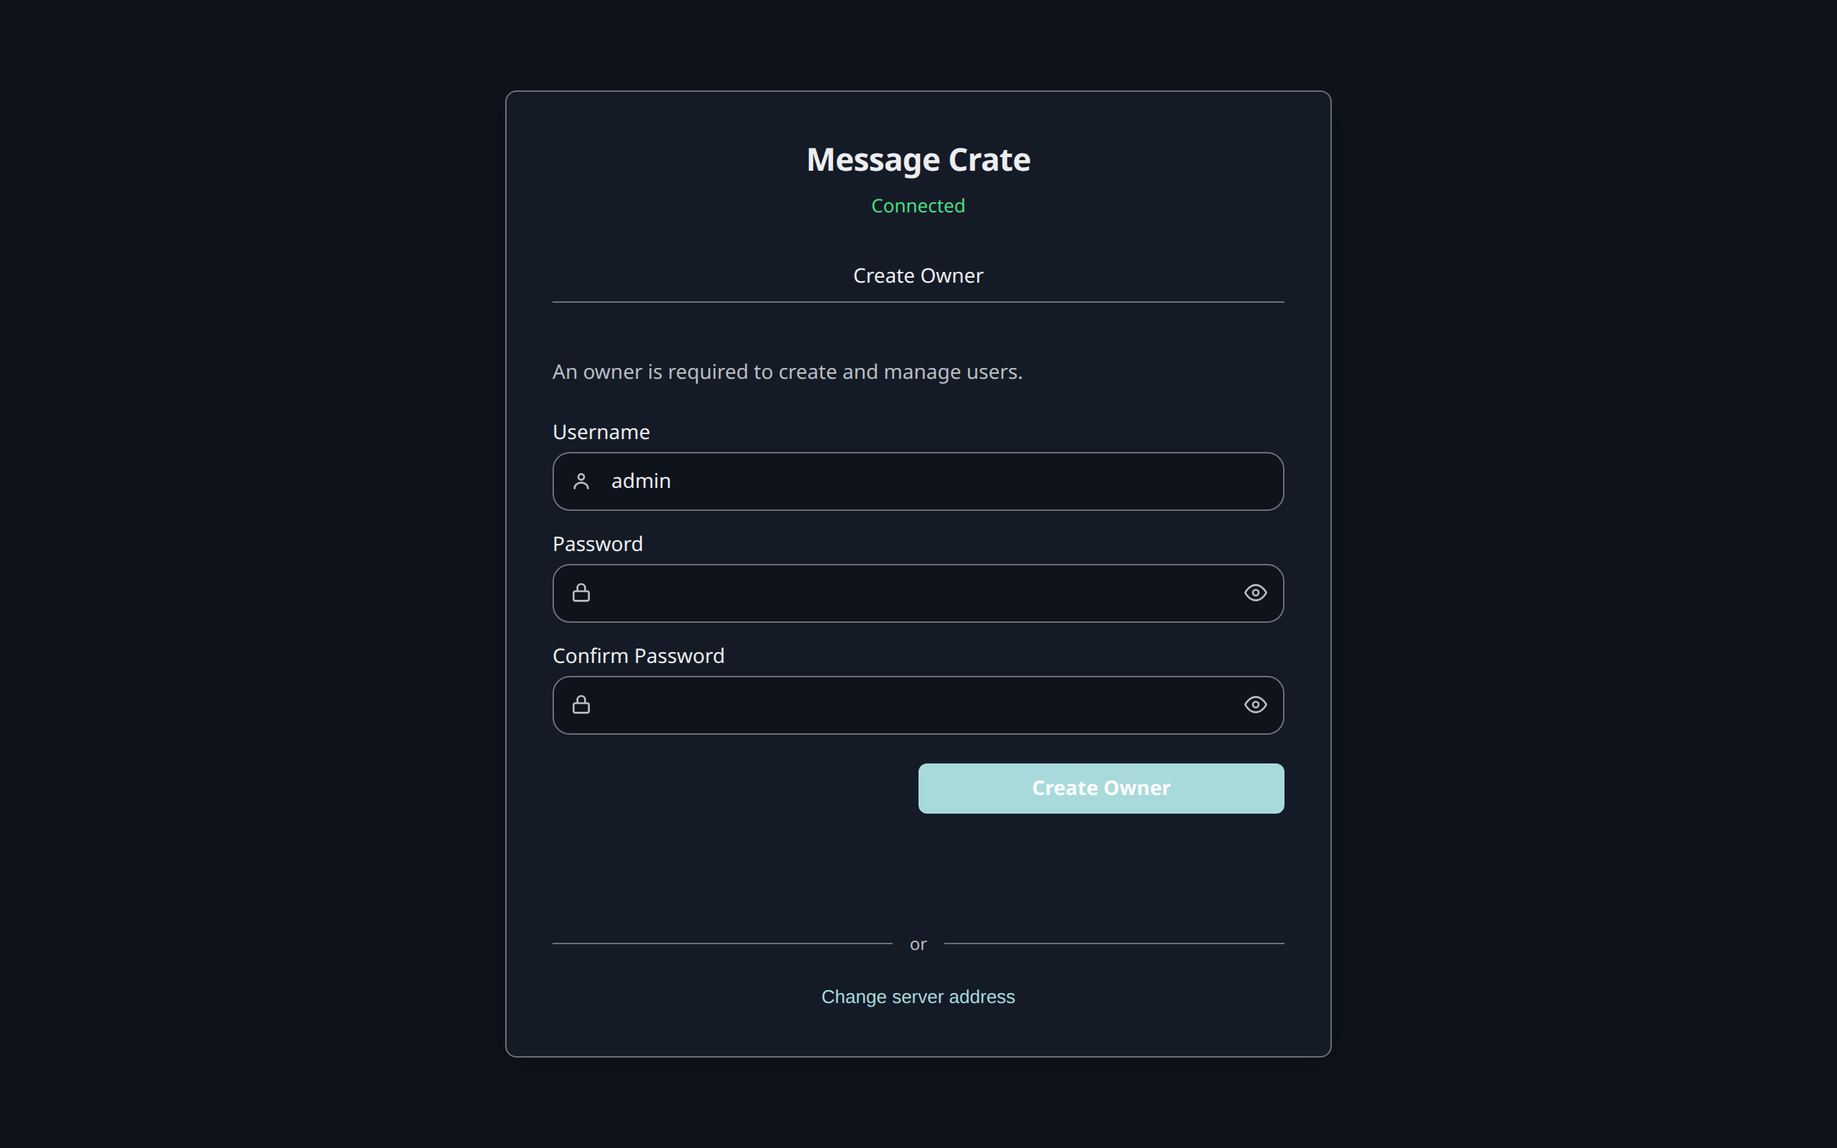
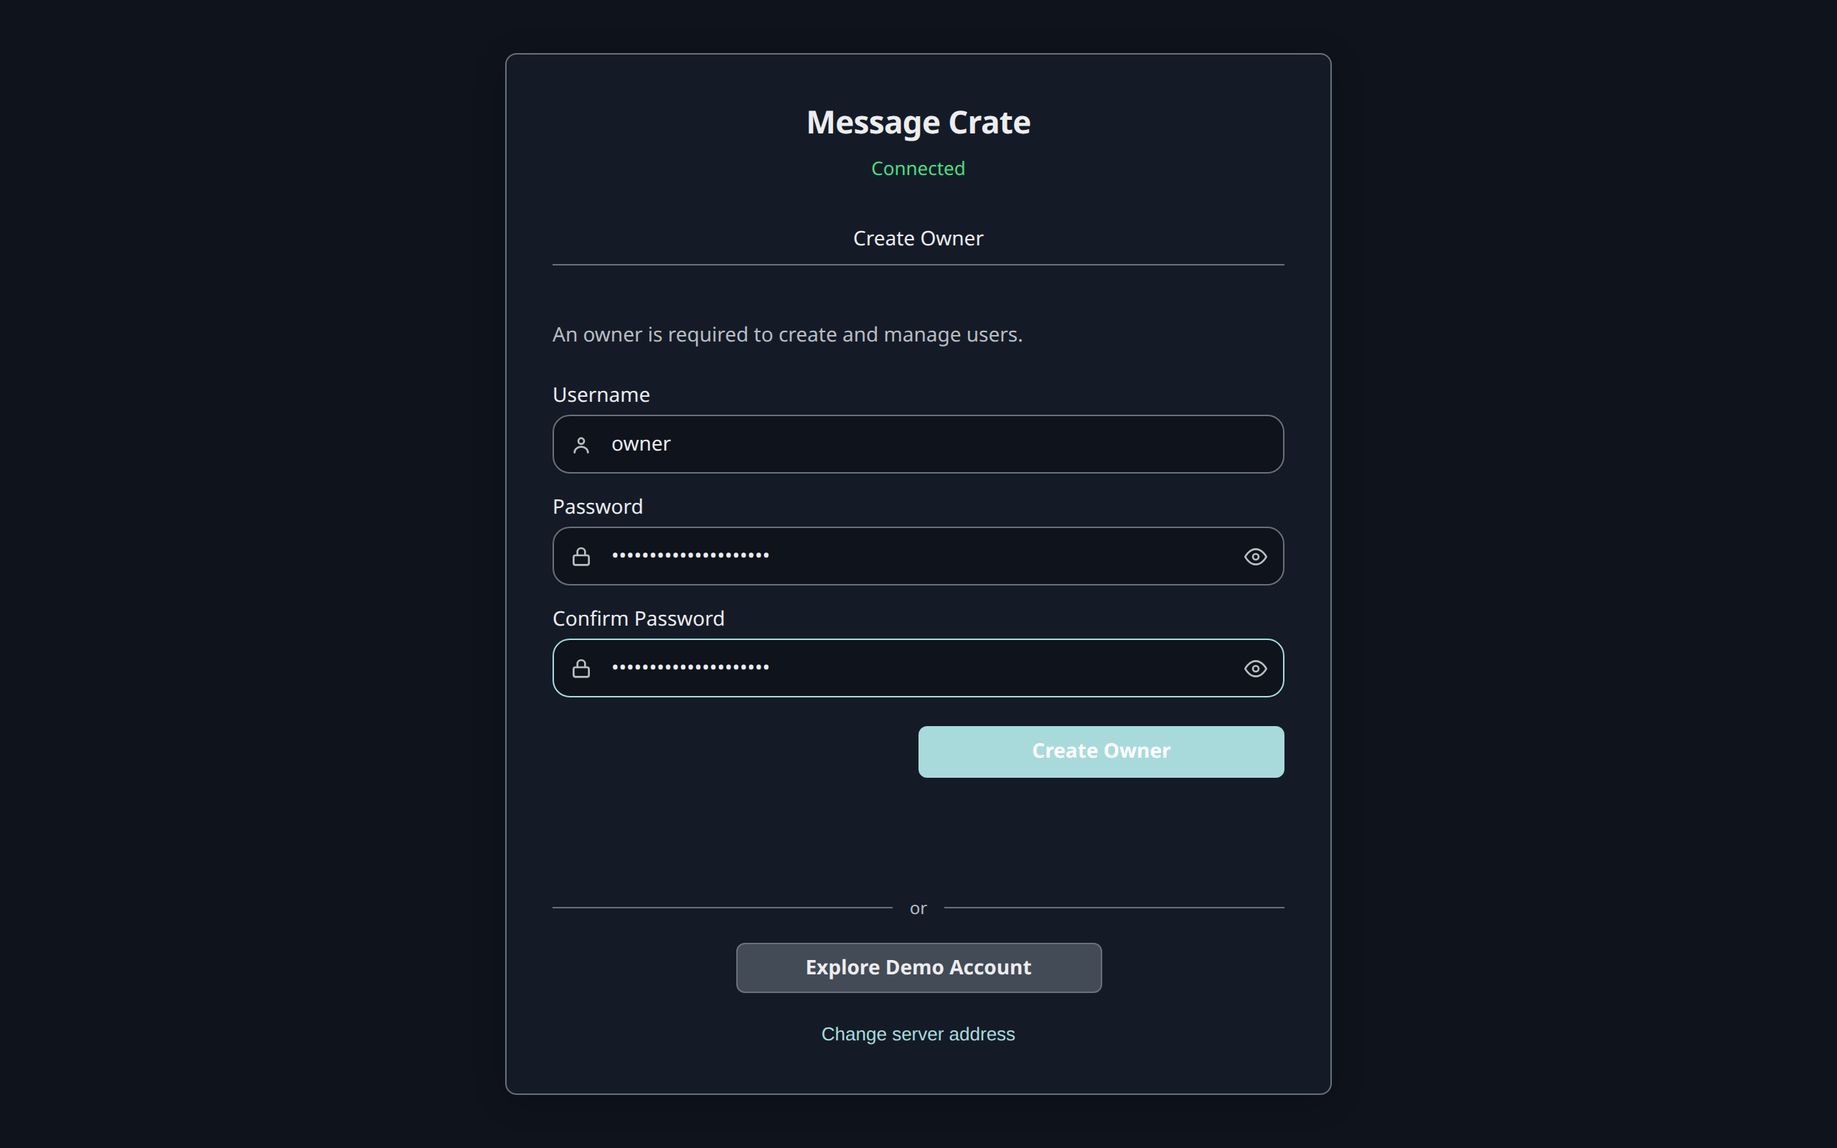
docs: the user guide follows one Message Crate from first start to import
The first-time path now starts one Message Crate and keeps it: start it,
press Explore Demo Account, look around, create the Owner, add an account,
import, and delete the Demo Account at the end (#971). The throwaway demo
container and the second `docker run` are gone.

- Step 2 is "Start a Message Crate" and step 4 is "Create the Owner and an
  account"; both pages are renamed and every link follows.
- Step 7 ends with deleting the Demo Account, and says how the Owner
  brings it back.
- The screenshot script takes one server, and the four screens that
  changed are retaken from Demo Data.

diff --git a/docs/src/lib/landing-links.ts b/docs/src/lib/landing-links.ts
@@ -3,7 +3,7 @@ export const landingLinks = {
   home: "/",
   howItWorks: "/#how-it-works",
   features: "/#features",
-  getStarted: "/docs/user/get-started/run-with-demo-data/",
+  getStarted: "/docs/user/get-started/start-a-message-crate/",
   docs: "/docs/user/",
   developer: "/docs/developer/",
   backups: "/docs/user/get-started/what-is-message-crate/#who-provides-the-messages",

diff --git a/docs/src/content/docs/docs/developer/docker.md b/docs/src/content/docs/docs/developer/docker.md
@@ -7,7 +7,7 @@ This page is for people who compile Message Crate. It explains how to build a Do
 
 Everyday coding should just run on the local developer machine. Those steps are on [Contributing → Build and run](/docs/developer/contributing/#build-and-run).
 
-People who only want to run Message Crate, and who are not changing the code, should pull the published image. See [Run a Message Crate with demo data](/docs/user/get-started/run-with-demo-data/#start-the-server).
+People who only want to run Message Crate, and who are not changing the code, should pull the published image. See [Start a Message Crate](/docs/user/get-started/start-a-message-crate/#start-the-server).
 
 Build a local image when the work is about the container itself. Examples:
 
@@ -23,7 +23,7 @@ A merge to `main` does not publish an image. CI only builds and pushes `bitrealm
 
 Docker Compose reads a YAML file and starts a container from it. This repository has two of those files. They both listen on port **8080**. They do not do the same thing.
 
-`docker/compose.yml` names an image that already exists: `bitrealm/message-crate:latest`. Compose downloads that image from Docker Hub. It does not compile this local checkout. That file is the sample for [Run a Message Crate with demo data](/docs/user/get-started/run-with-demo-data/#start-the-server). Do not use that file from a local checkout if the goal is to test local code.
+`docker/compose.yml` names an image that already exists: `bitrealm/message-crate:latest`. Compose downloads that image from Docker Hub. It does not compile this local checkout. That file is the sample for [Start a Message Crate](/docs/user/get-started/start-a-message-crate/#start-the-server). Do not use that file from a local checkout if the goal is to test local code.
 
 `docker/compose.release.yml` builds `docker/Dockerfile` from the files in this local checkout. The result is the same kind of image CI uploads to Docker Hub: a compiled server binary, the website copied into `static/`, and ffmpeg. After a code change, rebuild. The running container does not pick up edits on the local machine on its own.
 
@@ -168,13 +168,13 @@ That job is the Hub image. `docker/compose.release.yml` is the way to compile th
 
 ## Run the published image
 
-Pull and start `bitrealm/message-crate` from Docker Hub as described in [Run a Message Crate with demo data](/docs/user/get-started/run-with-demo-data/#start-the-server). That page gives the `docker run` command; `docker/compose.yml` in the repository is the Compose form of it. Upgrades that keep the existing database volume are on [Update](/docs/user/features/owner/update/).
+Pull and start `bitrealm/message-crate` from Docker Hub as described in [Start a Message Crate](/docs/user/get-started/start-a-message-crate/#start-the-server). That page gives the `docker run` command; `docker/compose.yml` in the repository is the Compose form of it. Upgrades that keep the existing database volume are on [Update](/docs/user/features/owner/update/).
 
 ## Related
 
 - [Contributing](/docs/developer/contributing/#build-and-run)
 - [Release](/docs/developer/release/)
-- [Run a Message Crate with demo data](/docs/user/get-started/run-with-demo-data/)
+- [Start a Message Crate](/docs/user/get-started/start-a-message-crate/)
 - [Update](/docs/user/features/owner/update/)
 - [HTTP API](/docs/developer/reference/api/)
 - [Config and accounts](/docs/developer/reference/config-and-accounts/)

diff --git a/docs/src/content/docs/docs/user/get-started/start-a-message-crate.md b/docs/src/content/docs/docs/user/get-started/start-a-message-crate.md
@@ -1,0 +1,68 @@
+---
+title: Start a Message Crate
+description: One Docker command starts a Message Crate that already holds made-up conversations to look at.
+---
+
+This step starts a Message Crate on this computer.
+It is the only one this guide starts: the same Message Crate is looked at in [step 3](/docs/user/get-started/look-around-the-demo-data/) and holds real messages from [step 4](/docs/user/get-started/create-the-owner-and-an-account/) on.
+
+Every new Message Crate starts with demo data: made-up conversations, contacts, and attachments.
+It shows what the product does before any phone backup exists.
+The demo data sits in an account of its own, the Demo Account, apart from any real messages, and can be deleted later.
+
+## Install Docker
+
+The server is published as a Docker image and in no other form, so Docker is required.
+
+- **Windows and macOS:** [Docker Desktop](https://docs.docker.com/desktop/). Docker Desktop must be running before the command below works.
+- **Linux:** [Docker Engine](https://docs.docker.com/engine/install/).
+
+`docker --version` in a terminal prints a version number once Docker is installed.
+
+## Start the server
+
+```bash title="Start a Message Crate"
+docker run -d --name message-crate \
+  --restart unless-stopped \
+  -p 127.0.0.1:8080:8080 \
+  -v message-crate-data:/app/data \
+  bitrealm/message-crate:latest
+```
+
+On Windows, PowerShell needs the command on one line, without the trailing `\` characters.
+
+What each part does:
+
+| Part | Meaning |
+|---|---|
+| `--name message-crate` | Names the container, so later commands can refer to it. |
+| `--restart unless-stopped` | Starts the server again after the computer restarts. |
+| `-p 127.0.0.1:8080:8080` | Makes the server reachable at port 8080 from this computer only. |
+| `-v message-crate-data:/app/data` | Keeps the database in a Docker volume named `message-crate-data`. |
+
+Every message this Message Crate holds lives in the `message-crate-data` volume.
+`docker rm message-crate` removes only the server and keeps the messages.
+`docker volume rm message-crate-data` deletes the messages.
+
+## Wait for the first start
+
+The first start writes the demo data before the server answers, which takes a few seconds.
+`docker logs -f message-crate` shows the progress.
+The server is ready when the log prints `listening on`.
+`Ctrl+C` stops following the log and leaves the server running.
+
+Later starts write nothing and answer at once.
+
+## Check that it worked
+
+[http://localhost:8080](http://localhost:8080) in a browser shows a card titled **Message Crate**, with the word **Connected**, a **Create Owner** form, and an **Explore Demo Account** button.
+
+![The first screen of a new Message Crate: Create Owner, and Explore Demo Account](../../../../../assets/user-guide/login.png)
+
+Is port 8080 already in use?
+
+Docker then reports `port is already allocated` and the container doesn't start.
+`docker rm message-crate` removes the failed container.
+Changing the first `8080` in the command to a free port, such as `-p 127.0.0.1:8090:8080`, moves the server to `http://localhost:8090`.
+
+Next: [Look around the demo data](/docs/user/get-started/look-around-the-demo-data/).

diff --git a/docs/src/content/docs/docs/user/get-started/create-the-owner-and-an-account.md b/docs/src/content/docs/docs/user/get-started/create-the-owner-and-an-account.md
@@ -1,9 +1,9 @@
 ---
-title: Start your own Message Crate
-description: Start a new Message Crate, create its Owner, add an account to hold the messages, and log in as that account.
+title: Create the Owner and an account
+description: Claim the Message Crate by creating its Owner, add an account to hold the messages, and log in as that account.
 ---
 
-This step starts a new Message Crate and ends logged in as the account that will hold the messages.
+This step makes the Message Crate from [step 2](/docs/user/get-started/start-a-message-crate/) ready for real messages, and ends logged in as the account that will hold them.
 
 It creates two logins, and both are needed:
 
@@ -13,38 +13,18 @@ It creates two logins, and both are needed:
 The split means the person who runs the server can't read another person's messages through it.
 The person who runs a Message Crate for themselves still needs both.
 
-## Start the server
-
-The demo Message Crate from step 3 must be deleted first, because it holds port 8080.
-
-```bash title="Start a new Message Crate"
-docker run -d --name message-crate \
-  --restart unless-stopped \
-  -p 127.0.0.1:8080:8080 \
-  -v message-crate-data:/app/data \
-  bitrealm/message-crate:latest
-```
-
-Two parts differ from the demo command:
-
-| Part | Meaning |
-|---|---|
-| `--name message-crate` and `message-crate-data` | New names, so nothing from the demo is reused. |
-| `--restart unless-stopped` | Starts the server again after the computer restarts. |
-
-Every message this Message Crate holds lives in the `message-crate-data` volume.
-`docker rm message-crate` removes only the server and keeps the messages.
-`docker volume rm message-crate-data` deletes the messages.
+Real messages never go into the Demo Account. It can't import, so that no backup lands among the made-up conversations.
 
 ## Create the Owner
 
-1. Open [http://localhost:8080](http://localhost:8080). A new Message Crate shows **Create Owner** and, below it, **Explore Demo Account**: this Message Crate also starts with demo data, in an account of its own that the Owner can delete.
+1. Open [http://localhost:8080](http://localhost:8080). A Message Crate with no Owner shows **Create Owner**. Whoever fills it in first becomes the Owner.
 2. Enter a **Username** and a **Password**, and repeat the password in **Confirm Password**.
 3. Select **Create Owner**.
 
-![The Create Owner card on an empty Message Crate](../../../../../assets/user-guide/create-owner.png)
+![The Create Owner form, filled in](../../../../../assets/user-guide/create-owner.png)
 
-The browser opens **Owner Home** on **User Accounts**, where the Owner is the only row.
+The browser opens **Owner Home** on **User Accounts**, which lists the Owner and **demo**, the Demo Account.
+The first screen now shows **Login** in place of **Create Owner**, and keeps **Explore Demo Account**.
 
 The Owner's password is the only thing between the network and every account on this Message Crate, so it must be one that isn't used anywhere else.
 

diff --git a/docs/src/content/docs/docs/user/get-started/look-around-the-demo-data.md b/docs/src/content/docs/docs/user/get-started/look-around-the-demo-data.md
@@ -1,6 +1,6 @@
 ---
 title: Look around the demo data
-description: Open the Demo Account in a browser, try the conversation list, search, and contacts, then delete the demo Message Crate.
+description: Open the Demo Account in a browser, try the conversation list, search, and contacts, then log out.
 ---
 
 This step uses a browser only.
@@ -12,7 +12,8 @@ The desktop app comes later, in [step 5](/docs/user/get-started/install-the-desk
 2. Select **Explore Demo Account**.
 
 The Demo Account has no password, so there is nothing to type.
-The card also shows **Create Owner**, which is for [step 4](/docs/user/get-started/start-your-own-message-crate/).
+The card also shows **Create Owner**, which is for [step 4](/docs/user/get-started/create-the-owner-and-an-account/).
+The name at the top right, **demo**, shows which account is logged in.
 
 ## Things to try
 
@@ -41,17 +42,15 @@ The demo text is sampled from *Pride and Prejudice*, which is why the conversati
 The Demo Account may export, and move things to the Trash and restore them.
 It may not import or delete for good.
 Anyone who reaches this Message Crate can enter it, so those limits keep a person's own messages out of the demo data and keep one visitor from emptying it for the next.
+
+Names given to contacts, groups, tags, and saved searches made here stay until the Owner resets the Demo Account.
+
+## Log out
+
 The round button at the top right opens the account menu, which holds **Log out**.
+Logging out returns to the first screen, which still shows **Create Owner** and **Explore Demo Account**.
 
-## Delete the demo Message Crate
+The Demo Account stays for as long as it is useful.
+[Step 7](/docs/user/get-started/import-your-backup/#delete-the-demo-account) ends by deleting it.
 
-```bash title="Remove the demo container and its data"
-docker rm -f message-crate-demo
-docker volume rm message-crate-demo-data
-```
-
-The first command stops and removes the server.
-The second deletes the demo database.
-[http://localhost:8080](http://localhost:8080) no longer answers once both have run.
-
-Next: [Start a Message Crate for real messages](/docs/user/get-started/start-your-own-message-crate/).
+Next: [Create the Owner and an account](/docs/user/get-started/create-the-owner-and-an-account/).

diff --git a/docs/src/content/docs/docs/user/get-started/install-the-desktop-app.md b/docs/src/content/docs/docs/user/get-started/install-the-desktop-app.md
@@ -1,10 +1,10 @@
 ---
 title: Install the desktop app
-description: Download the desktop app, get past the unsigned-app warning, and log in to the Message Crate from step 4.
+description: Download the desktop app, get past the unsigned-app warning, and log in to the Message Crate with the account from step 4.
 ---
 
 The desktop app shows the same screens as the website and adds **Import** and **Export**.
-This step installs it and logs in to the Message Crate started in [step 4](/docs/user/get-started/start-your-own-message-crate/).
+This step installs it and logs in with the account made in [step 4](/docs/user/get-started/create-the-owner-and-an-account/).
 
 ## Download
 
@@ -50,7 +50,7 @@ These steps follow Apple's documentation. Nobody on the project has run them on 
 The app opens on a card titled **Message Crate**.
 The line under the title reads **Connected** when the app has found the server.
 
-The app looks for the server at `http://127.0.0.1:8080`, which is this computer, so a Message Crate started with the command in step 4 is found with nothing to change.
+The app looks for the server at `http://127.0.0.1:8080`, which is this computer, so a Message Crate started with the command in step 2 is found with nothing to change.
 
 1. Enter the username and password of the account from step 4. The Owner's login also works here, but the Owner can't import.
 2. Select **Log in**.

diff --git a/docs/src/content/docs/docs/user/features/owner/update.md b/docs/src/content/docs/docs/user/features/owner/update.md
@@ -21,7 +21,7 @@ A copy of the `message-crate-data` volume, made as in [Run on another machine](/
 These steps follow Docker's documentation. Nobody on the project has run them. A wrong step is worth [an issue](https://github.com/messagecrate/message-crate/issues).
 :::
 
-The steps match the server started in [Start your own Message Crate](/docs/user/get-started/start-your-own-message-crate/): a container named `message-crate` on the volume `message-crate-data`.
+The steps match the server started in [Start a Message Crate](/docs/user/get-started/start-a-message-crate/): a container named `message-crate` on the volume `message-crate-data`.
 
 `docker stop` and `docker rm` remove the running server.
 They leave the volume alone, so the messages stay.
@@ -88,4 +88,4 @@ Everything the database held is gone after a rebuild:
 - contact names that were typed in, Contact Groups, Message Tags, Saved Searches, and the Trash,
 - every API Token.
 
-The way back is the first-time path again: [create the Owner and an account](/docs/user/get-started/start-your-own-message-crate/#create-the-owner), then [import the backups](/docs/user/get-started/import-your-backup/).
+The way back is the first-time path again: [create the Owner and an account](/docs/user/get-started/create-the-owner-and-an-account/#create-the-owner), then [import the backups](/docs/user/get-started/import-your-backup/).

diff --git a/docs/src/content/docs/docs/user/get-started/what-is-message-crate.md b/docs/src/content/docs/docs/user/get-started/what-is-message-crate.md
@@ -44,9 +44,9 @@ Every tool that works with message history works this way, so the backup step is
 ## The path from here
 
 1. This page.
-2. [Run a Message Crate with demo data](/docs/user/get-started/run-with-demo-data/).
+2. [Start a Message Crate](/docs/user/get-started/start-a-message-crate/).
 3. [Look around the demo data](/docs/user/get-started/look-around-the-demo-data/).
-4. [Start a Message Crate for real messages](/docs/user/get-started/start-your-own-message-crate/).
+4. [Create the Owner and an account](/docs/user/get-started/create-the-owner-and-an-account/).
 5. [Install the desktop app](/docs/user/get-started/install-the-desktop-app/).
 6. Back up the phone: [iPhone](/docs/user/get-started/back-up-an-iphone/) or [Android](/docs/user/get-started/back-up-an-android-phone/).
 7. [Import the backup](/docs/user/get-started/import-your-backup/).
@@ -55,4 +55,4 @@ Every tool that works with message history works this way, so the backup step is
 Steps 2 and 3 take a few minutes and need no phone.
 They answer whether Message Crate is worth the work of steps 4 to 7.
 
-Next: [Run a Message Crate with demo data](/docs/user/get-started/run-with-demo-data/).
+Next: [Start a Message Crate](/docs/user/get-started/start-a-message-crate/).

diff --git a/docs/src/content/docs/docs/user/get-started/import-your-backup.md b/docs/src/content/docs/docs/user/get-started/import-your-backup.md
@@ -77,4 +77,18 @@ The record of the run stays under **Settings → Storage → Import history**.
 Importing the same backup twice doesn't create duplicates.
 The Message Crate recognises messages it already holds and skips them, so a newer backup of the same phone adds only what is new.
 
+## Delete the Demo Account
+
+The Demo Account has done its job once real messages are in.
+Deleting it is optional. It holds nothing real, and nothing in it mixes with another account.
+While it exists, anyone who reaches the server can open it from the login screen.
+
+1. Log out, and log in as the Owner. A browser at [http://localhost:8080](http://localhost:8080) works, and so does the desktop app.
+2. On **User Accounts**, select **demo**.
+3. Open **Danger zone** and select **Delete account**.
+4. Confirm with **Delete account**.
+
+The **Explore Demo Account** button leaves the login screen.
+The Owner brings the Demo Account back under [Server Settings](/docs/user/features/owner/owner-home/#demo-account) with **Add Demo Account**.
+
 Next: [Where to go next](/docs/user/get-started/where-to-go-next/).

diff --git a/docs/src/content/docs/docs/user/get-started/where-to-go-next.md b/docs/src/content/docs/docs/user/get-started/where-to-go-next.md
@@ -14,7 +14,7 @@ What follows depends on what else there is to bring in.
 | WhatsApp, on Android or iPhone | [WhatsApp](/docs/user/import-sources/whatsapp/). Advanced: it needs a separate program and, on Android, a decryption key. |
 | An old backup from SMS Backup+, GO SMS Pro, iMazing, or OpenExtract | [Old backups](/docs/user/import-sources/old-backups/) |
 | A second phone | Steps [6](/docs/user/get-started/back-up-an-iphone/) and [7](/docs/user/get-started/import-your-backup/) again, into the same account |
-| Another person's messages | A new account for that person, added by the Owner as in [step 4](/docs/user/get-started/start-your-own-message-crate/#add-an-account) |
+| Another person's messages | A new account for that person, added by the Owner as in [step 4](/docs/user/get-started/create-the-owner-and-an-account/#add-an-account) |
 
 ## Using what is there
 

diff --git a/docs/src/content/docs/docs/user/features/owner/run-on-another-machine.md b/docs/src/content/docs/docs/user/features/owner/run-on-another-machine.md
@@ -20,7 +20,7 @@ Three things differ from the first-time path:
 
 ## Publish the server on the network
 
-The command in [Start your own Message Crate](/docs/user/get-started/start-your-own-message-crate/) has `-p 127.0.0.1:8080:8080`.
+The command in [Start a Message Crate](/docs/user/get-started/start-a-message-crate/) has `-p 127.0.0.1:8080:8080`.
 The `127.0.0.1` in front means only that computer reaches the server.
 
 Without it, Docker publishes port 8080 on every network the computer is connected to.

diff --git a/README.md b/README.md
@@ -17,7 +17,7 @@
     <br />
     <a href="https://messagecrate.app/docs/user/"><strong>Explore the docs »</strong></a>
     <br />
-    <a href="https://messagecrate.app/docs/user/get-started/run-with-demo-data/">Try Message Crate</a>
+    <a href="https://messagecrate.app/docs/user/get-started/start-a-message-crate/">Try Message Crate</a>
     &middot;
     <a href="https://github.com/messagecrate/message-crate/issues/new?labels=bug&template=bug_report.md">Report Bug</a>
     &middot;
